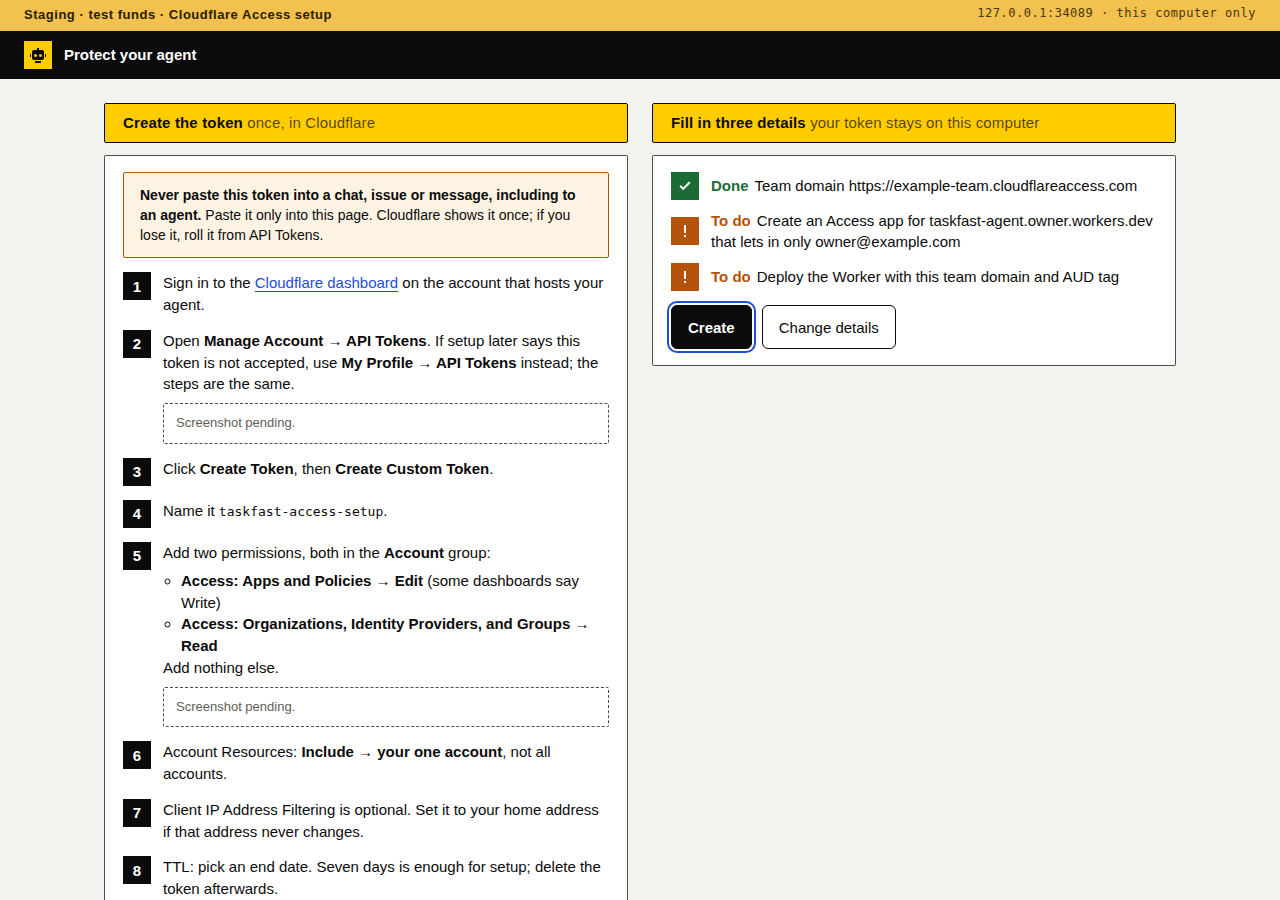
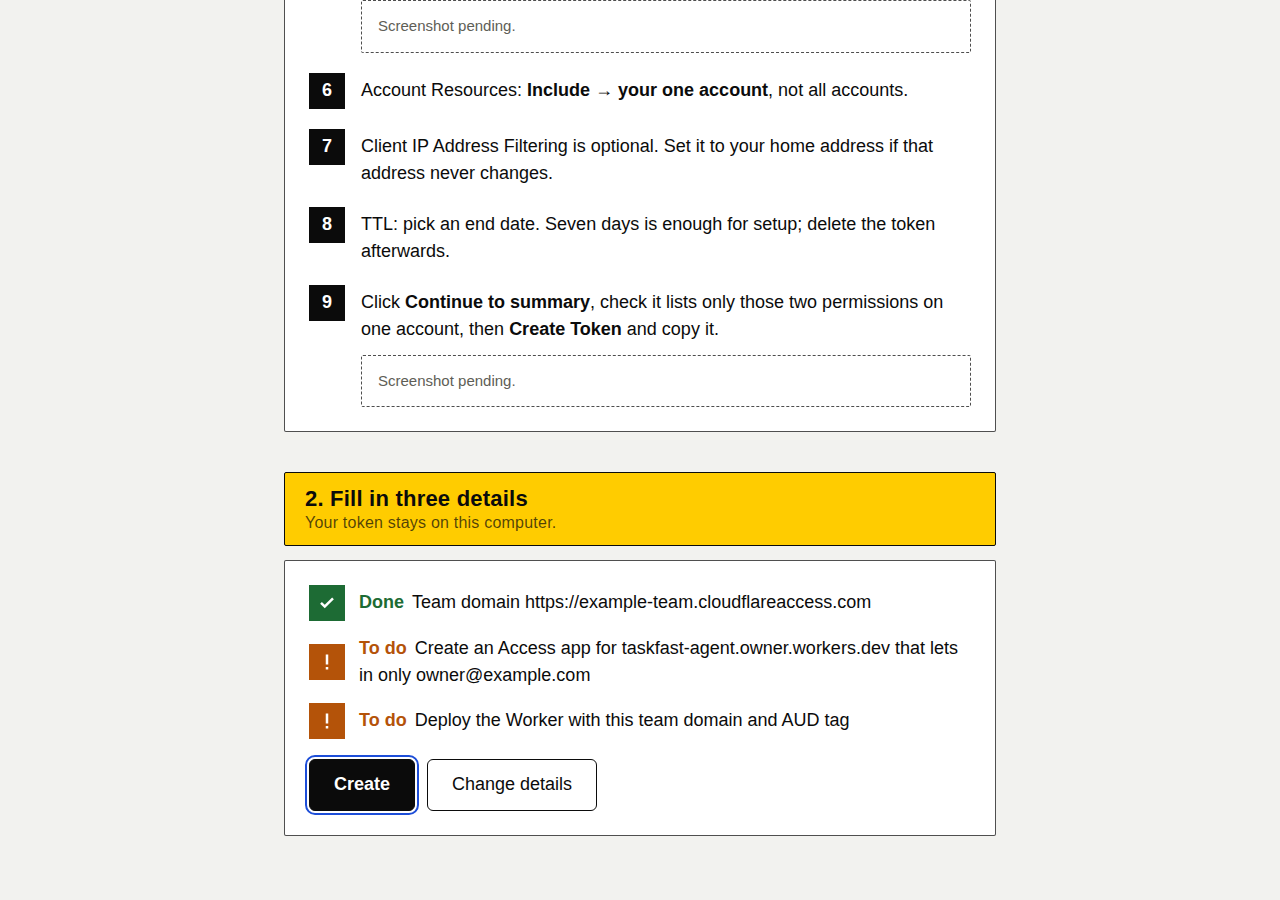
Lay the Access setup page out in one column with larger text and headings, as the owner asked

Changed region(s): [[0.0, 0.0, 1.0, 0.4356], [0.0938, 0.4667, 0.7812, 0.9956]]

diff --git a/cloudflare/provision-page.html b/cloudflare/provision-page.html
@@ -23,51 +23,56 @@
 ::selection { background: var(--yellow); color: var(--black); }
 :focus-visible { outline: 2px solid var(--blue); outline-offset: 2px; }
 html { accent-color: var(--blue); }
-body { margin: 0; background: var(--ground); color: var(--ink); font: 400 15px/1.45 var(--font); }
-.env { padding: 6px 24px; font-size: 13px; font-weight: 600; letter-spacing: .04em; display: flex; justify-content: space-between; gap: 16px; }
+body { margin: 0; background: var(--ground); color: var(--ink); font: 400 18px/1.5 var(--font); }
+.env { padding: 8px 24px; font-size: 15px; font-weight: 600; letter-spacing: .04em; display: flex; justify-content: space-between; flex-wrap: wrap; gap: 4px 16px; }
 .env.prod { background: var(--red); color: #FFF; } .env.staging { background: #F2C14E; color: #2B2000; } .env.local { background: #2E5E8C; color: #FFF; }
-.env .addr { font: 400 12px var(--mono); opacity: .85; }
-header { background: var(--black); color: #FFF; display: flex; align-items: center; gap: 12px; padding: 10px 24px; }
-header b { font-weight: 700; }
-.sq { width: 28px; height: 28px; display: inline-grid; place-items: center; flex: none; background: var(--black); color: #FFF; }
-.sq svg { width: 16px; height: 16px; fill: currentColor; }
-.sq.brand { background: var(--yellow); color: var(--black); }
+.env .addr { font: 400 14px var(--mono); opacity: .85; }
+header { background: var(--black); color: #FFF; }
+header .in { max-width: 760px; margin: 0 auto; padding: 18px 24px; display: flex; align-items: center; gap: 14px; }
+header h1 { margin: 0; font-size: 28px; line-height: 1.2; font-weight: 800; letter-spacing: -.01em; }
+.sq { width: 36px; height: 36px; display: inline-grid; place-items: center; flex: none; background: var(--black); color: #FFF; }
+.sq svg { width: 20px; height: 20px; fill: currentColor; }
+.sq.brand { width: 44px; height: 44px; background: var(--yellow); color: var(--black); }
+.sq.brand svg { width: 26px; height: 26px; }
 .sq.ok { background: var(--green); } .sq.warn { background: var(--amber); } .sq.bad { background: var(--red); }
-main { max-width: 1120px; margin: 0 auto; padding: 24px; display: grid; grid-template-columns: minmax(0, 1fr) minmax(0, 1fr); gap: 24px; align-items: start; }
-@media (max-width: 860px) { main { grid-template-columns: 1fr; padding: 16px; gap: 16px; } }
-section { display: grid; gap: 12px; }
-.band { position: sticky; top: 0; z-index: 2; background: var(--yellow); color: var(--black); border: 1px solid var(--black); border-radius: 2px; padding: 8px 18px; font-weight: 700; letter-spacing: .01em; }
-.band span { font-weight: 500; color: rgba(11,11,11,.72); }
-.card { background: var(--panel); border: 1px solid var(--hair); border-radius: 2px; padding: 16px 18px; display: grid; gap: 14px; }
-ol.steps { margin: 0; padding: 0; list-style: none; counter-reset: step; display: grid; gap: 14px; }
-ol.steps > li { counter-increment: step; display: grid; grid-template-columns: 28px minmax(0, 1fr); gap: 12px; align-items: start; }
-ol.steps > li::before { content: counter(step); width: 28px; height: 28px; display: grid; place-items: center; background: var(--black); color: #FFF; font-weight: 700; font-variant-numeric: tabular-nums; }
+main { max-width: 760px; margin: 0 auto; padding: 32px 24px 64px; display: grid; gap: 40px; }
+@media (max-width: 640px) { main { padding: 20px 16px 48px; gap: 32px; } header .in { padding: 14px 16px; } header h1 { font-size: 24px; } }
+section { display: grid; gap: 14px; }
+.band { margin: 0; background: var(--yellow); color: var(--black); border: 1px solid var(--black); border-radius: 2px; padding: 12px 20px; font-size: 22px; line-height: 1.25; font-weight: 700; letter-spacing: .01em; }
+.band span { display: block; font-size: 16px; font-weight: 500; color: rgba(11,11,11,.72); }
+.card { background: var(--panel); border: 1px solid var(--hair); border-radius: 2px; padding: 24px; display: grid; gap: 20px; }
+@media (max-width: 640px) { .card { padding: 18px 16px; } }
+ol.steps { margin: 0; padding: 0; list-style: none; counter-reset: step; display: grid; gap: 20px; }
+ol.steps > li { counter-increment: step; display: grid; grid-template-columns: 36px minmax(0, 1fr); gap: 16px; align-items: start; }
+ol.steps > li::before { content: counter(step); width: 36px; height: 36px; display: grid; place-items: center; background: var(--black); color: #FFF; font-size: 18px; font-weight: 700; font-variant-numeric: tabular-nums; }
+ol.steps > li > div { padding-top: 4px; }
 @media (prefers-color-scheme: dark) { ol.steps > li::before { outline: 1px solid #F2F1EA; } }
-ol.steps ul { margin: 6px 0 0; padding-left: 18px; }
+ol.steps ul { margin: 8px 0; padding-left: 22px; display: grid; gap: 6px; }
 .perm { font-weight: 700; }
-.slot { margin-top: 8px; border: 1px dashed var(--hair); border-radius: 2px; padding: 10px 12px; color: var(--muted); font-size: 13px; }
+.slot { margin-top: 12px; border: 1px dashed var(--hair); border-radius: 2px; padding: 14px 16px; color: var(--muted); font-size: 15px; }
 .slot img { display: block; max-width: 100%; height: auto; }
-.never { margin: 0; background: var(--amber-tint); border: 1px solid var(--amber); border-radius: 2px; padding: 12px 16px; font-size: 14px; }
-label { display: grid; gap: 6px; font-size: 13px; color: var(--soft); }
-.help { font-size: 13px; color: var(--muted); }
-input[type=text], input[type=email], input[type=password], input[type=url] { width: 100%; min-height: 44px; padding: 10px; border: 1px solid var(--muted); border-radius: 6px; background: var(--panel); color: var(--ink); font: 400 15px var(--font); }
-input.mono { font-family: var(--mono); font-size: 13px; }
-.check { display: flex; gap: 10px; align-items: flex-start; font-size: 15px; color: var(--ink); min-height: 44px; }
-.check input { width: 18px; height: 18px; margin-top: 2px; }
-.actions { display: flex; gap: 10px; flex-wrap: wrap; }
-button { min-height: 44px; padding: 0 16px; border-radius: 6px; border: 1px solid var(--ink); background: var(--panel); color: var(--ink); font: 400 15px var(--font); cursor: pointer; }
-button.primary { background: var(--black); color: #FFF; border-color: var(--black); font-weight: 600; }
+.never { margin: 0; background: var(--amber-tint); border: 1px solid var(--amber); border-radius: 2px; padding: 16px 18px; font-size: 17px; }
+label { display: grid; gap: 8px; font-size: 17px; font-weight: 600; color: var(--ink); }
+.help { font-size: 15px; font-weight: 400; color: var(--muted); }
+input[type=text], input[type=email], input[type=password], input[type=url] { width: 100%; min-height: 52px; padding: 12px 14px; border: 1px solid var(--muted); border-radius: 6px; background: var(--panel); color: var(--ink); font: 400 18px var(--font); }
+input.mono { font-family: var(--mono); font-size: 16px; }
+.check { display: flex; gap: 12px; align-items: flex-start; font-size: 18px; font-weight: 400; min-height: 44px; }
+.check input { width: 22px; height: 22px; margin-top: 3px; flex: none; }
+.actions { display: flex; gap: 12px; flex-wrap: wrap; }
+button { min-height: 52px; padding: 0 24px; border-radius: 6px; border: 1px solid var(--ink); background: var(--panel); color: var(--ink); font: 400 18px var(--font); cursor: pointer; }
+button.primary { background: var(--black); color: #FFF; border-color: var(--black); font-weight: 700; }
 button[aria-disabled=true] { opacity: .55; cursor: progress; }
-.rows { display: grid; gap: 10px; margin: 0; padding: 0; list-style: none; }
-.rows li { display: grid; grid-template-columns: 28px minmax(0, 1fr); gap: 12px; align-items: center; }
-.rows .word { font-weight: 700; margin-right: 6px; }
+.rows { display: grid; gap: 14px; margin: 0; padding: 0; list-style: none; }
+.rows li { display: grid; grid-template-columns: 36px minmax(0, 1fr); gap: 14px; align-items: center; }
+.rows .word { font-weight: 700; margin-right: 8px; }
 .rows .ok .word { color: var(--green); } .rows .create .word, .rows .change .word { color: var(--amber); }
-.err { background: var(--red-tint); border: 1px solid var(--red); border-radius: 2px; padding: 12px 16px; font-size: 14px; }
+.err { background: var(--red-tint); border: 1px solid var(--red); border-radius: 2px; padding: 16px 18px; font-size: 17px; }
 .err b { color: var(--red); }
 #result p { margin: 0; }
-dl { margin: 0; display: grid; grid-template-columns: max-content minmax(0, 1fr); gap: 6px 14px; font-size: 14px; }
-dt { color: var(--soft); } dd { margin: 0; font: 400 13px var(--mono); overflow-wrap: anywhere; }
-code { font: 400 13px var(--mono); }
+dl { margin: 0; display: grid; grid-template-columns: max-content minmax(0, 1fr); gap: 10px 18px; font-size: 16px; }
+@media (max-width: 640px) { dl { grid-template-columns: 1fr; gap: 2px; } dd { margin-bottom: 10px !important; } }
+dt { color: var(--soft); } dd { margin: 0; font: 400 15px var(--mono); overflow-wrap: anywhere; }
+code { font: 400 .9em var(--mono); }
 a { color: var(--blue); text-underline-offset: 3px; }
 [hidden] { display: none !important; }
 .sr { position: absolute; width: 1px; height: 1px; overflow: hidden; clip: rect(0 0 0 0); white-space: nowrap; }
@@ -76,12 +81,14 @@ a { color: var(--blue); text-underline-offset: 3px; }
 <body>
 <div class="env" id="env" role="note"><span id="env-name">Cloudflare setup</span><span class="addr" id="addr"></span></div>
 <header>
+  <div class="in">
   <span class="sq brand" aria-hidden="true"><svg viewBox="0 0 16 16"><path d="M7 1h2v2h3a2 2 0 0 1 2 2v6a2 2 0 0 1-2 2H4a2 2 0 0 1-2-2V5a2 2 0 0 1 2-2h3zM5.5 7a1.5 1.5 0 1 0 0 3 1.5 1.5 0 0 0 0-3m5 0a1.5 1.5 0 1 0 0 3 1.5 1.5 0 0 0 0-3M0 7h1v3H0zm15 0h1v3h-1zM5 14h6v2H5z"/></svg></span>
-  <b>Protect your agent</b>
+  <h1>Protect your agent</h1>
+  </div>
 </header>
 <main>
   <section aria-labelledby="guide-band">
-    <div class="band" id="guide-band">Create the token <span>once, in Cloudflare</span></div>
+    <h2 class="band" id="guide-band">1. Create the token <span>Once, in Cloudflare. Takes about two minutes.</span></h2>
     <div class="card">
       <p class="never"><b>Never paste this token into a chat, issue or message, including to an agent.</b> Paste it only into this page. Cloudflare shows it once; if you lose it, roll it from API Tokens.</p>
       <ol class="steps">
@@ -101,7 +108,7 @@ a { color: var(--blue); text-underline-offset: 3px; }
   </section>
 
   <section aria-labelledby="form-band">
-    <div class="band" id="form-band">Fill in three details <span>your token stays on this computer</span></div>
+    <h2 class="band" id="form-band">2. Fill in three details <span>Your token stays on this computer.</span></h2>
     <form class="card" id="form" novalidate autocomplete="off">
       <label>Scoped API token
         <input id="token" type="password" class="mono" autocomplete="off" spellcheck="false" autocapitalize="off" required>
@@ -120,7 +127,7 @@ a { color: var(--blue); text-underline-offset: 3px; }
     </form>
 
     <div class="card" id="plan" hidden aria-live="polite">
-      <h2 class="sr">What setup will do</h2>
+      <h3 class="sr">What setup will do</h3>
       <ul class="rows" id="steps"></ul>
       <label class="check" id="replace-row" hidden><input id="replace" type="checkbox"> <span id="replace-text"></span></label>
       <div class="actions"><button class="primary" id="create" type="button">Create</button><button id="edit" type="button">Change details</button></div>
